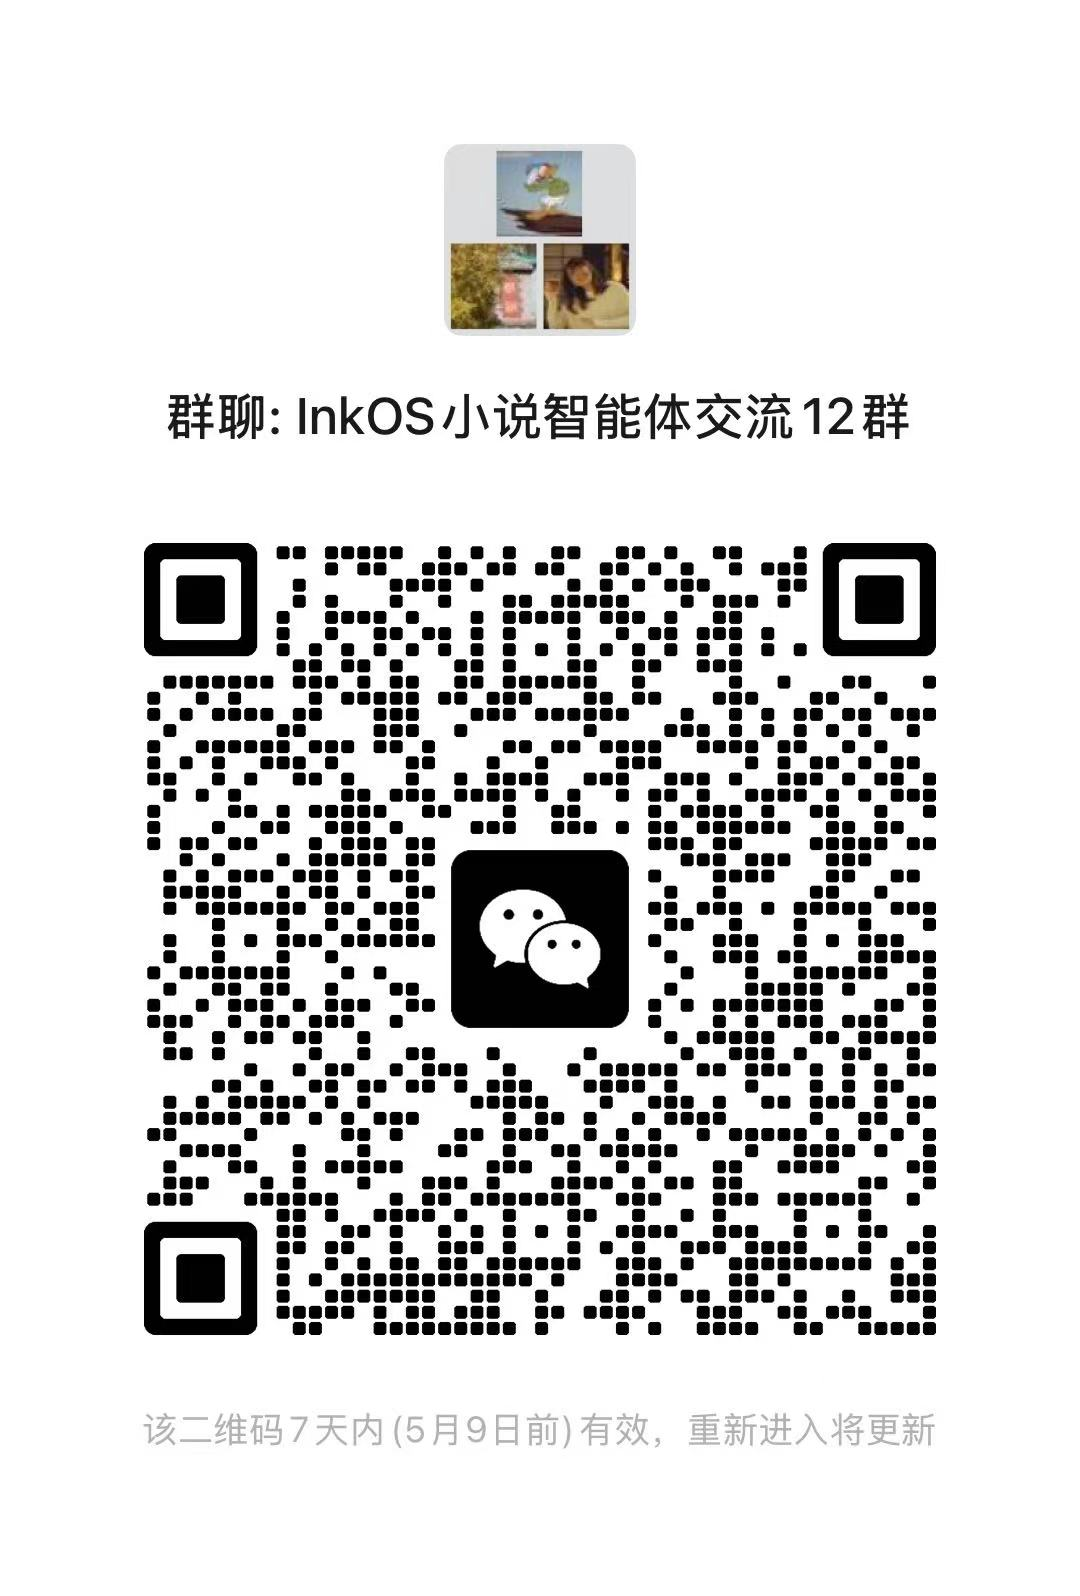
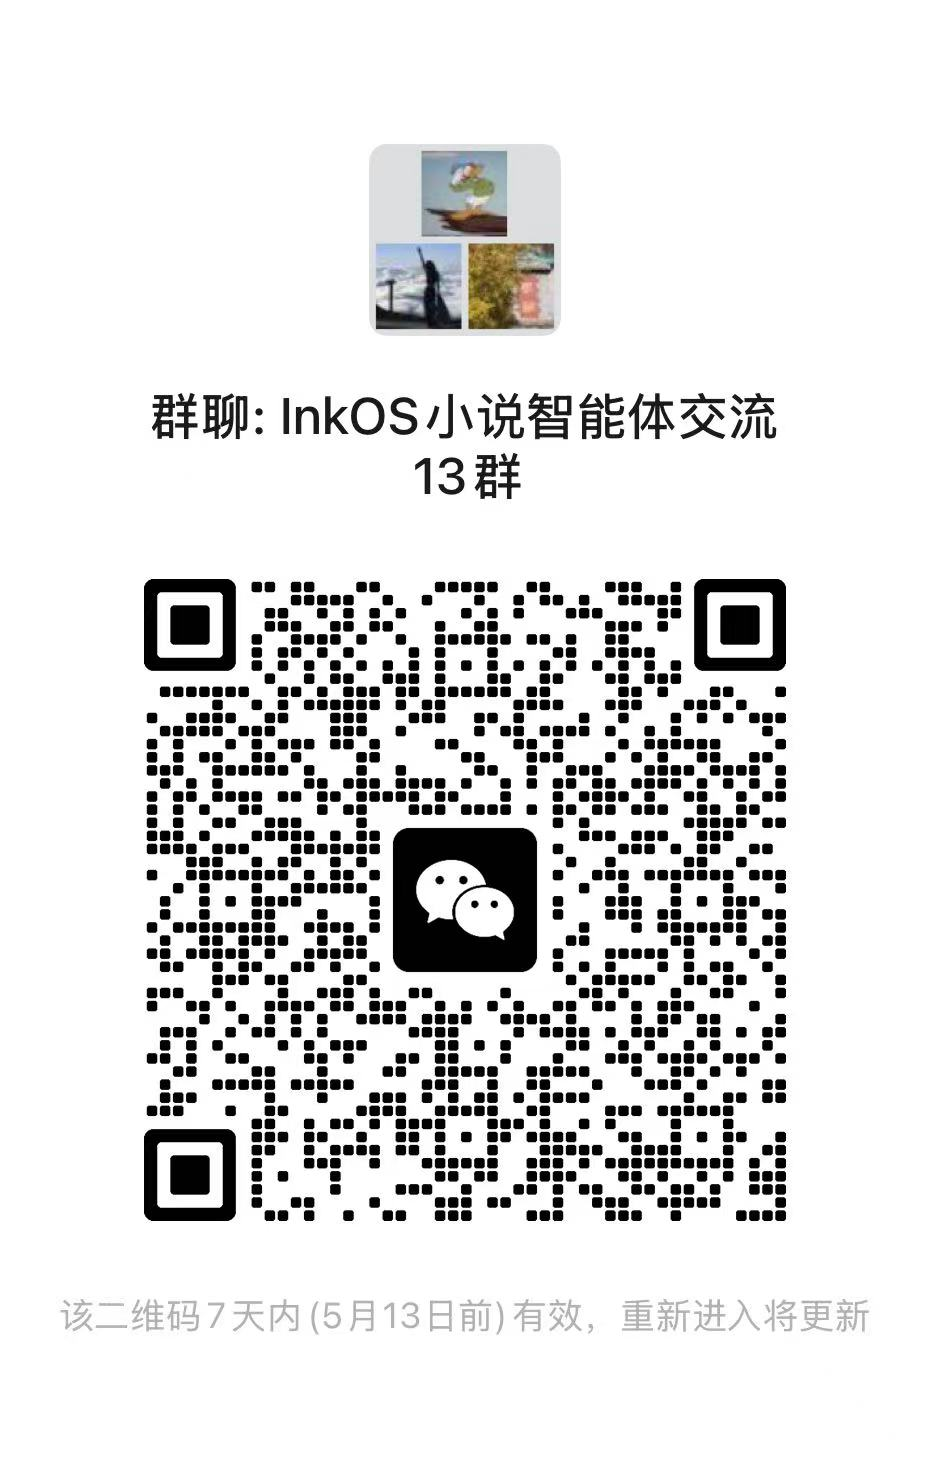
chore(release): prepare v1.3.10

Changed region(s): [[0.1247, 0.0931, 0.8731, 0.8381], [0.0624, 0.8691, 0.9355, 0.9001]]

diff --git a/README.ja.md b/README.ja.md
@@ -25,7 +25,7 @@
 
 **InkOS TUI 正式リリース！** — `inkos tui` を実行してフルスクリーンのインタラクティブダッシュボードを起動。会話型創作、自然言語での書籍操作、スラッシュコマンド自動補完、テーマアニメーション——TUI、Studio、OpenClaw が同一のインタラクションカーネルを共有。
 
-**v1.3.9 Studio 作成 Hotfix** — 新規書籍作成が既存書籍の session に取り込まれる問題を修正し、Dashboard の「Book Settings」入口を復旧しました。`#/book/:id` は Chat ワークスペースのまま、`#/book/:id/settings` で書籍設定を編集できます。
+**v1.3.10 書籍作成 platform Hotfix** — Studio と CLI の書籍作成で `sub_agent.platform` の別名入力が schema validation に失敗する問題を修正しました。Studio、CLI、TUI、agent create-book は platform alias をサポート済みの値へ正規化します。
 
 **英語ネイティブ小説執筆に対応！** — 10種類の英語ジャンルプロファイルを内蔵し、専用のペーシングルール、疲労語リスト、監査ディメンションを搭載。`--lang en` を設定するだけですぐに始められます。
 

diff --git a/README.en.md b/README.en.md
@@ -25,7 +25,7 @@ Open-source AI Agent that autonomously writes, audits, and revises novels — wi
 
 **InkOS TUI is here!** — run `inkos tui` to launch a full-screen interactive dashboard. Conversational creation, natural-language book operations, slash command autocomplete, themed animations — TUI, Studio, and OpenClaw share the same interaction kernel.
 
-**v1.3.9 Studio creation hotfix** — fixes new-book creation being hijacked by an existing book session, and restores the Dashboard “Book Settings” entry. `#/book/:id` remains the Chat workspace, while `#/book/:id/settings` edits book configuration.
+**v1.3.10 book creation platform hotfix** — fixes `sub_agent.platform` schema validation failures during Studio and CLI book creation. Studio, CLI, TUI, and agent create-book paths now normalize platform aliases to supported values.
 
 **Native English novel writing now supported！** — 10 built-in English genre profiles with dedicated pacing rules, fatigue word lists, and audit dimensions. Set `--lang en` and go.
 

diff --git a/CHANGELOG.md b/CHANGELOG.md
@@ -1,5 +1,18 @@
 # Changelog
 
+## v1.3.10
+
+### Release Focus
+
+建书 platform 热修：修复 `sub_agent.platform` 参数在网页和命令行建书时可能因中文/别名输入触发 schema 校验失败的问题，并把新书创建链路统一收口到合法平台值。
+
+### Bug Fixes
+
+- 修复建书过程中工具调用报 `Validation failed for tool "sub_agent": - platform: must be equal to constant`，导致无法生成书籍文件的问题
+- 统一 Studio、CLI、TUI、agent create-book 链路的平台别名归一化，`番茄` / `fanqie` / `番茄小说` 等输入会落到合法枚举
+- 对未知平台值降级为 `other`，避免错误平台 id 写入书籍配置后继续影响后续流程
+- 更新 README 微信交流群二维码为 13 群
+
 ## v1.3.9
 
 ### Release Focus
